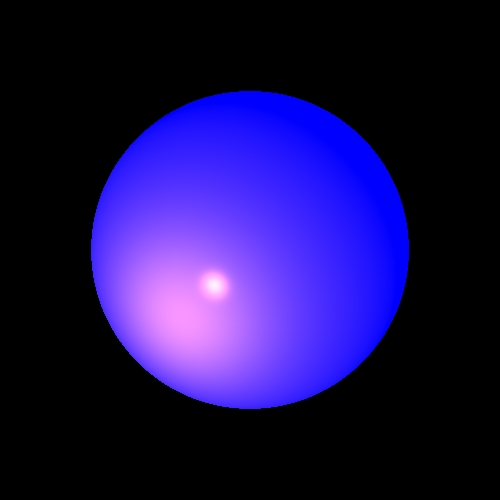
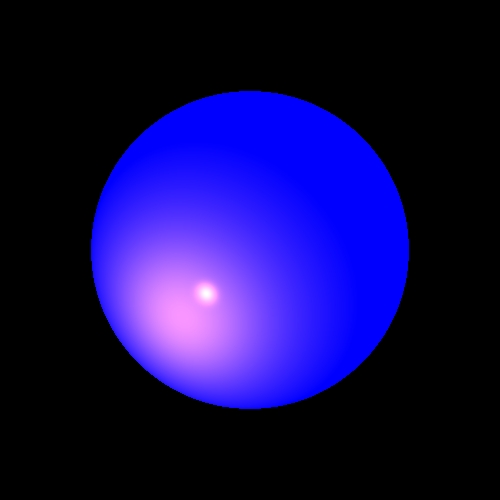
level 6 - fixed spot

Changed region(s): [[0.18, 0.24, 0.78, 0.84]]

diff --git a/src/geometries/Polygon.java b/src/geometries/Polygon.java
@@ -119,7 +119,7 @@ public class Polygon extends Geometry implements Intersectable {
 					resultList.add(vectorList.get(i+1).crossProduct(vectorList.get(i)).dotProduct(ray.getDirection()));
 			}
 			double Plus=0, Minus=0;
-			for(int i=0;i<resultList.size();i++)//multiplying all the results, and if they have the same sign, the final_result's sign will be positive
+			for(int i=0;i<resultList.size();i++)
 			{
 				if(resultList.get(i)>0)
 					Plus++;

diff --git a/src/elements/SpotLight.java b/src/elements/SpotLight.java
@@ -29,9 +29,5 @@ public class SpotLight extends PointLight
 		return super.getIntensity(p).scale(Math.max(0,result));
 	}
 
-	@Override
-	public Vector getL(Point3D p) {
-		return _direction;
-	}
 
 }
